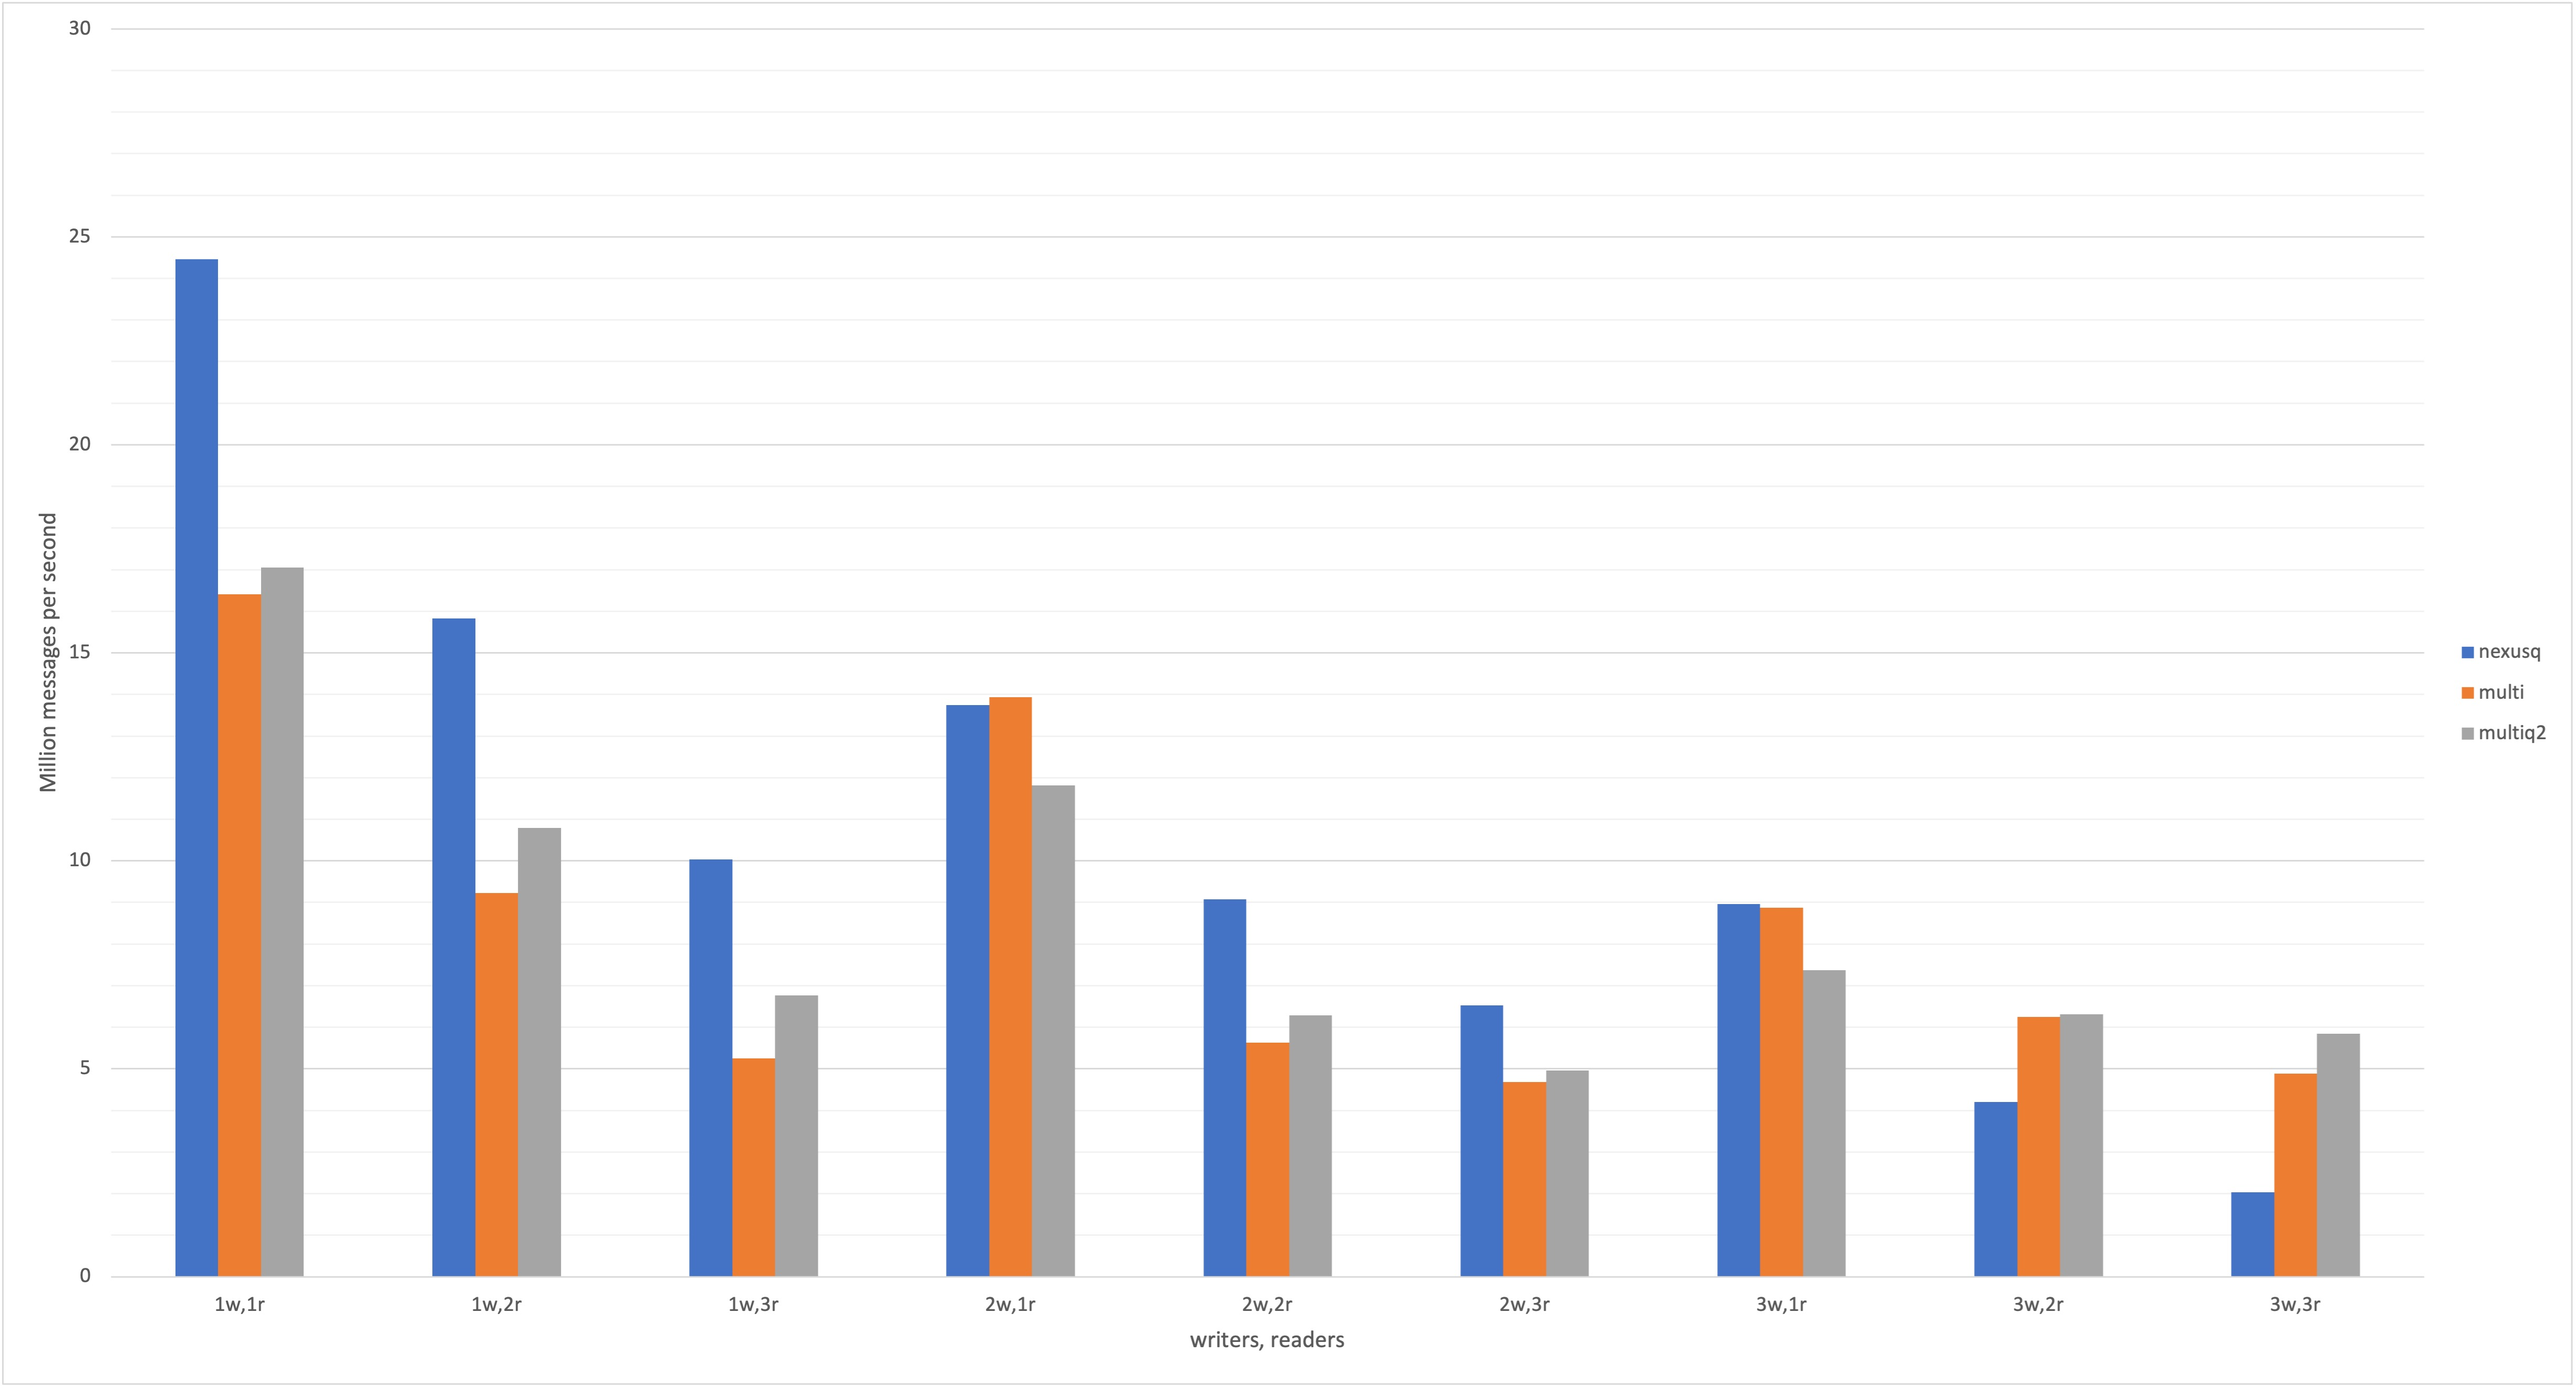
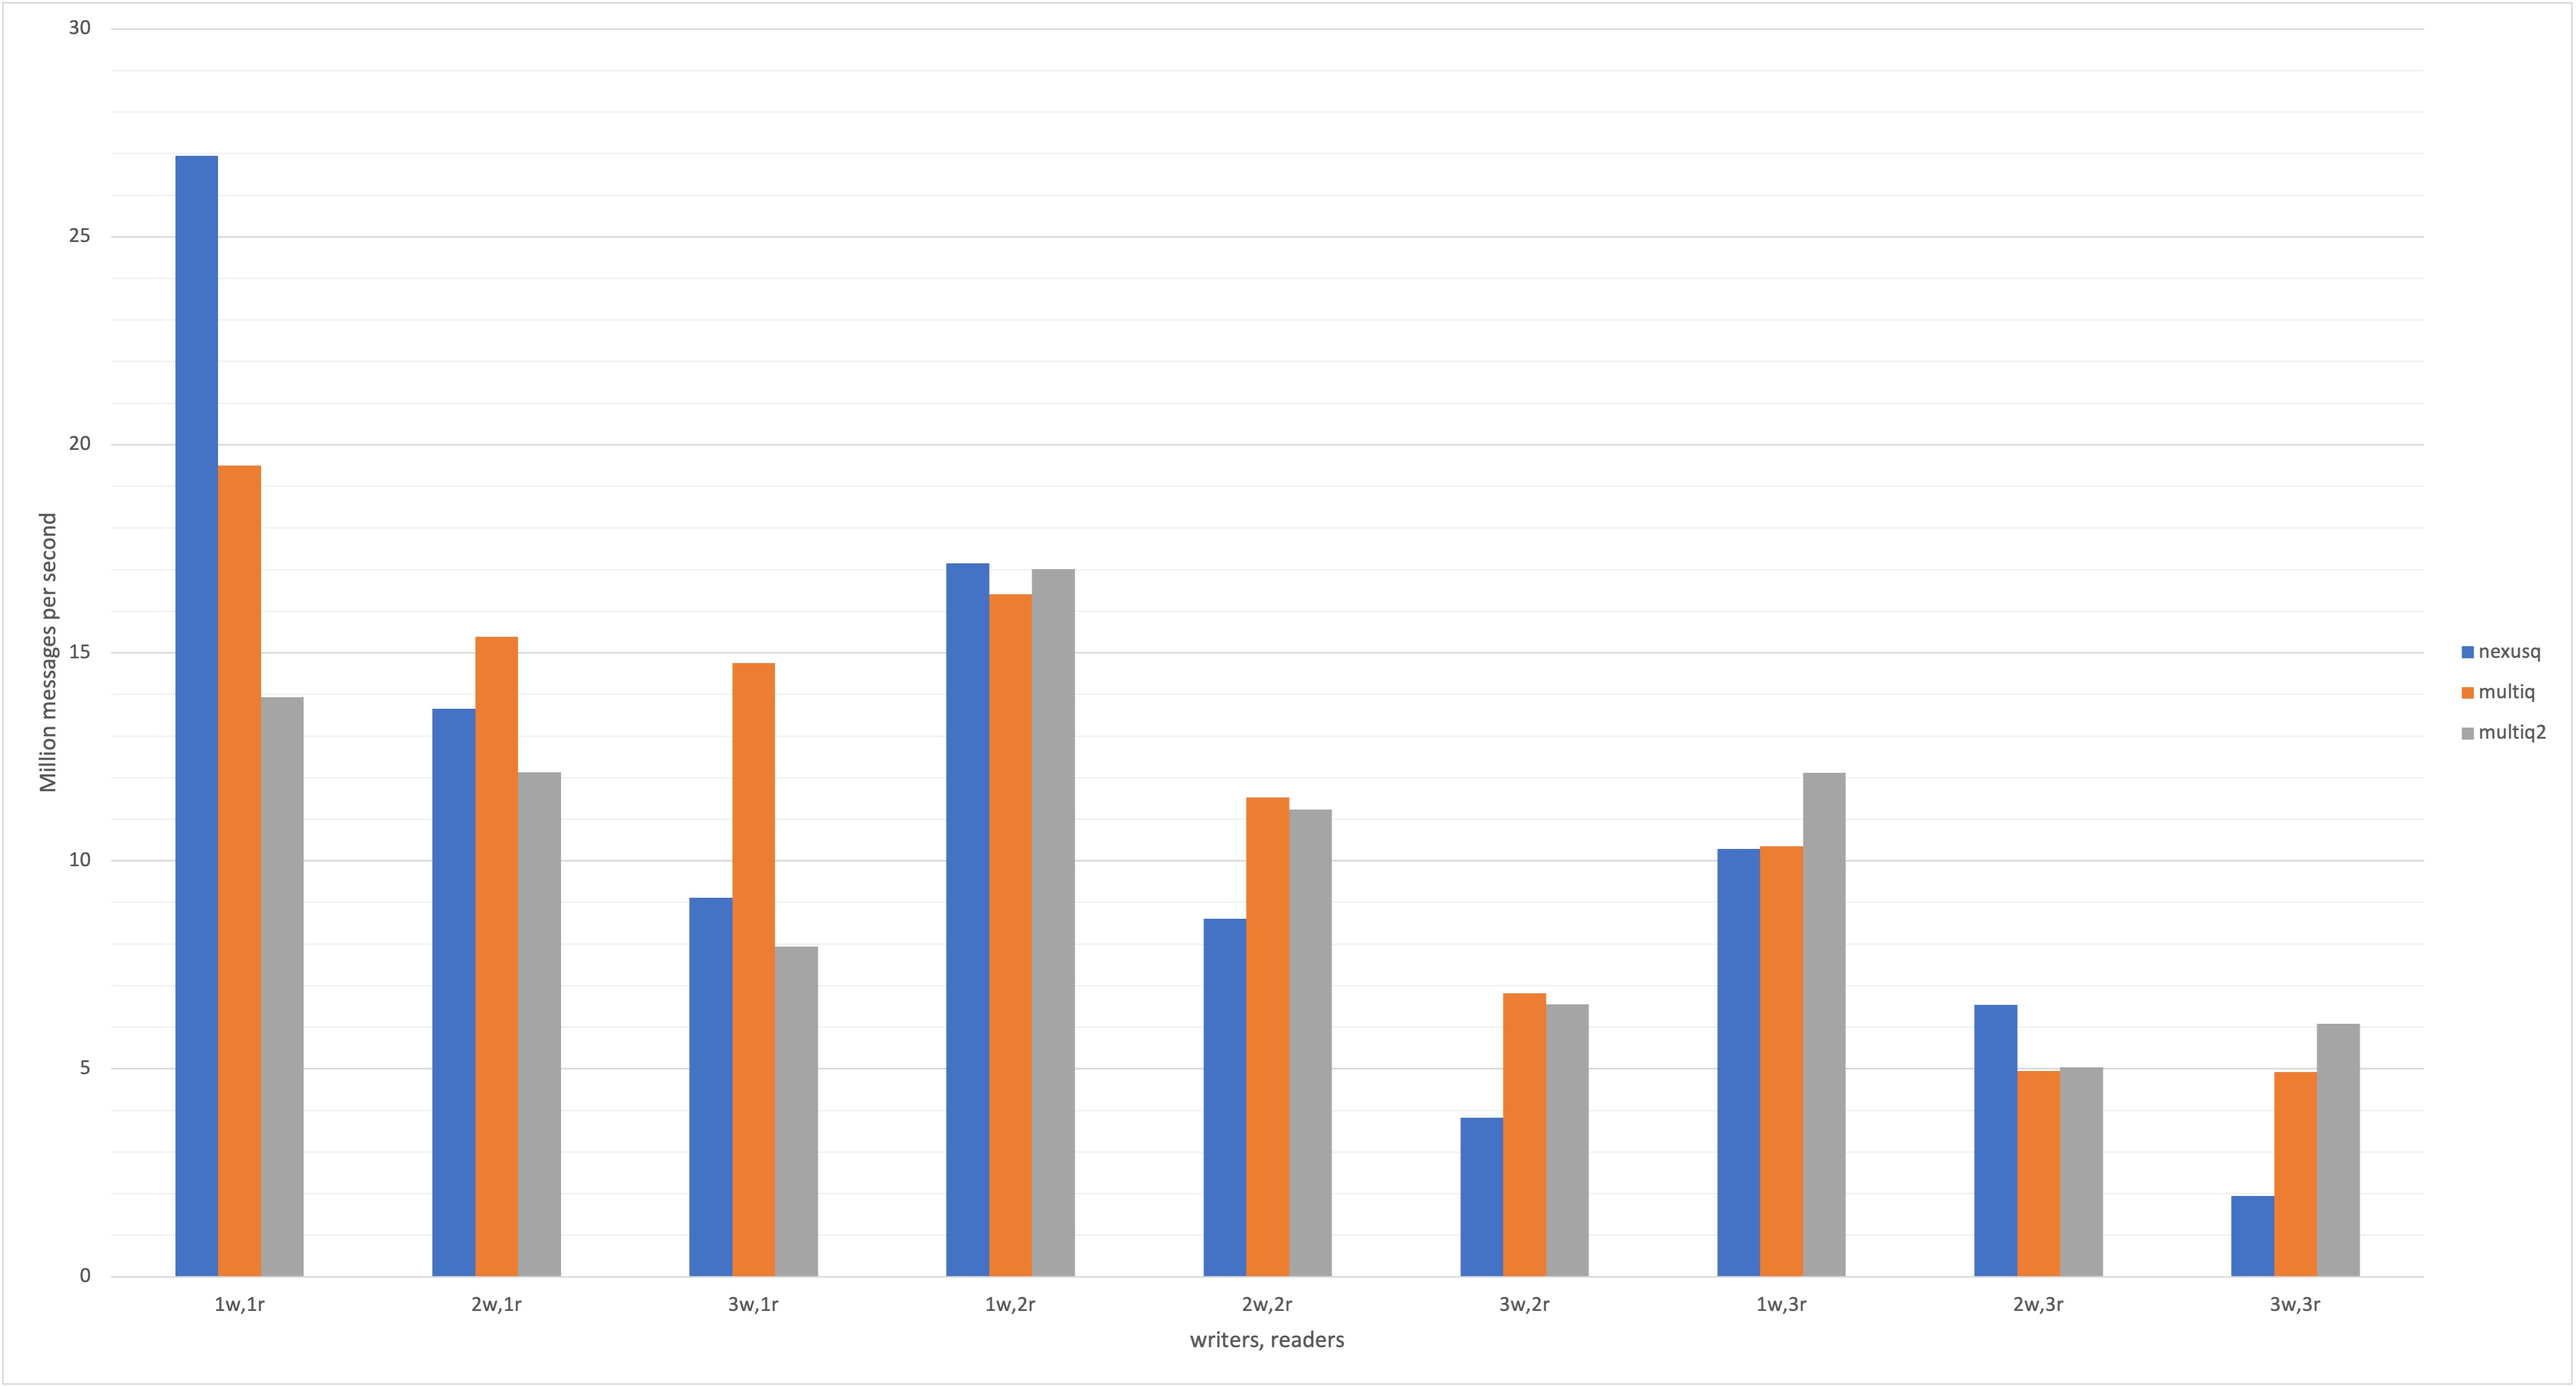
benchmark updates

diff --git a/benches/bench.rs b/benches/bench.rs
@@ -223,8 +223,8 @@ impl Display for RunParam {
 
 fn throughput(c: &mut Criterion) {
     let num = 10000;
-    let max_writers = 3;
-    let max_readers = 3;
+    let max_writers = 4;
+    let max_readers = 4;
 
     let pool = Pool::<ThunkWorker<()>>::new(max_writers + max_readers);
     let (mut tx, mut rx) = std::sync::mpsc::channel();

diff --git a/README.md b/README.md
@@ -1,5 +1,5 @@
 # Nexusq
-**A fast multi producer multi consumer broadcast channel 
+**A multi producer multi consumer broadcast channel 
 based on [LMAX Disruptor](https://github.com/LMAX-Exchange/disruptor)**
 
 ## What is it?
@@ -15,10 +15,10 @@ Development of Nexusq has been a personal learning project and there are no guar
 it is correct.
 
 # Benchmarks
-|         | 1w,1r  | 1w,2r  | 1w,3r  | 2w,1r  | 2w,2r  | 2w,3r  | 3w,1r  | 3w,2r  | 3w,3r  |
+|         | 1w,1r  | 2w,1r  | 3w,1r  | 1w,2r  | 2w,2r  | 3w,2r  | 1w,3r  | 2w,3r  | 3w,3r  |
 |---------|--------|--------|--------|--------|--------|--------|--------|--------|--------|
-| nexusq  | 24.456 | 15.825 | 10.036 | 13.745 | 9.0724 | 6.5236 | 8.967  | 4.1999 | 2.0336 |
-| multi   | 16.404 | 9.2243 | 5.2459 | 13.937 | 5.624  | 4.6864 | 8.8758 | 6.2498 | 4.8834 |
-| multiq2 | 17.046 | 10.787 | 6.7643 | 11.818 | 6.2914 | 4.9649 | 7.3721 | 6.3057 | 5.8492 |
+| nexusq  | 26.945 | 13.651 | 9.112  | 17.158 | 8.6075 | 3.822  | 10.282 | 6.5375 | 1.9437 |
+| multiq  | 19.503 | 15.392 | 14.753 | 16.412 | 11.519 | 6.8163 | 10.345 | 4.9533 | 4.9182 |
+| multiq2 | 13.94  | 12.128 | 7.9346 | 17.009 | 11.239 | 6.5446 | 12.122 | 5.0413 | 6.0842 |
 
 ![benchmark results](benchmark_results/bench.jpg)
